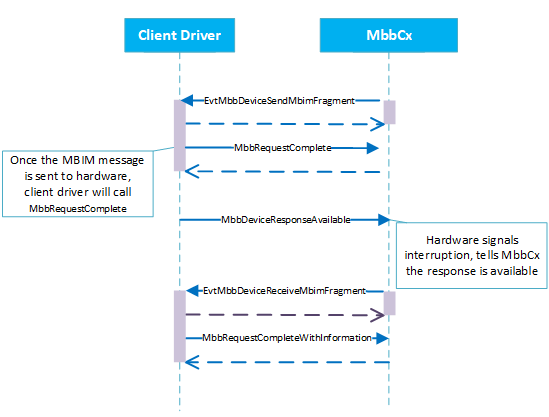
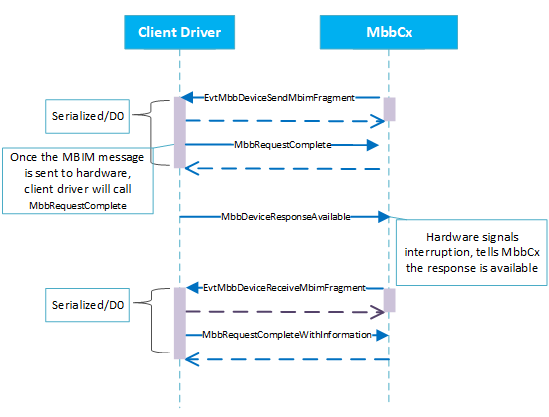
still more

diff --git a/windows-driver-docs-pr/netcx/writing-an-mbbcx-client-driver.md b/windows-driver-docs-pr/netcx/writing-an-mbbcx-client-driver.md
@@ -20,13 +20,15 @@ ms.technology: windows-devices
 
 ## Initialize the device
 
-In addition to the tasks required by NetAdapterCx for [device initialization](device-initialization.md), an MBB client driver must perform the following tasks in its [*EvtDriverDeviceAdd*](https://docs.microsoft.com/windows-hardware/drivers/ddi/content/wdfdriver/nc-wdfdriver-evt_wdf_driver_device_add) callback function:
+In addition to those tasks required by NetAdapterCx for [NetAdapter device initialization](device-initialization.md), an MBB client driver must also perform the following tasks in its [*EvtDriverDeviceAdd*](https://docs.microsoft.com/windows-hardware/drivers/ddi/content/wdfdriver/nc-wdfdriver-evt_wdf_driver_device_add) callback function:
 
-1. Call [**MbbDeviceInitConfig**](mbbdeviceinitconfig.md) after calling [**NetAdapterDeviceInitConfig**](https://docs.microsoft.com/windows-hardware/drivers/ddi/content/netadapter/nf-netadapter-netadapterdeviceinitconfig), referencing the same [*WDFDEVICE\_INIT*](../wdf/wdfdevice_init.md) object passed by the framework. **MbbDeviceInitConfig** must be called before calling [*WdfDeviceCreate*](https://docs.microsoft.com/windows-hardware/drivers/ddi/content/wdfdevice/nf-wdfdevice-wdfdevicecreate). 
+1. Call [**MbbDeviceInitConfig**](mbbdeviceinitconfig.md) after calling [*NetAdapterDeviceInitConfig*](https://docs.microsoft.com/windows-hardware/drivers/ddi/content/netadapter/nf-netadapter-netadapterdeviceinitconfig) but before calling [*WdfDeviceCreate*](https://docs.microsoft.com/windows-hardware/drivers/ddi/content/wdfdevice/nf-wdfdevice-wdfdevicecreate), referencing the same [*WDFDEVICE\_INIT*](../wdf/wdfdevice_init.md) object passed-in by the framework.
 
-2. Call [**MbbDeviceInitialize**](mbbdeviceinitialize.md) to register MBB device-specific callback functions using an initialized [MBB_DEVICE_CONFIG](mbb-device-config.md) structure and the WDFDEVICE object obtained from **WdfDeviceCreate**.
+2. Call [**MbbDeviceInitialize**](mbbdeviceinitialize.md) to register MBB device-specific callback functions using an initialized [MBB_DEVICE_CONFIG](mbb-device-config.md) structure and the WDFDEVICE object obtained from *WdfDeviceCreate*.
 
-The following example demonstrates how to initialize the MBB device. NOte that error handling has been left out for clarity.
+The following example demonstrates how to initialize the MBB device.
+
+>the error handling has been left out for clarity.
 
 ```C++
     status = NetAdapterDeviceInitConfig(deviceInit);
@@ -47,38 +49,43 @@ The following example demonstrates how to initialize the MBB device. NOte that e
 ```
 Unlike other types of NetAdapterCx drivers, MBB client drivers must not create the NETADAPTER object from within the *EvtDriverDeviceAdd* callback function. Instead, it will be instructed by MBBCx to do so later.
 
-In the [*EvtDevicePrepareHardware*](https://docs.microsoft.com/windows-hardware/drivers/ddi/content/wdfdevice/nc-wdfdevice-evt_wdf_device_prepare_hardware) callback function that follows, the client driver must call [**MbbDeviceSetMbimParameters**](mbbdevicesetmbimparameters.md).
+Next, the client driver must call [**MbbDeviceSetMbimParameters**](mbbdevicesetmbimparameters.md), typically in the [*EvtDevicePrepareHardware*](https://docs.microsoft.com/windows-hardware/drivers/ddi/content/wdfdevice/nc-wdfdevice-evt_wdf_device_prepare_hardware) callback function that follows, .
 
 ## Handling MBIM control messages
 
 MBBCx uses the standard MBIM control commands defined in MBIM specification Rev 1.0, sections 8, 9, and 10, for the control plane. Commands and responses are exchanged through a set of callback functions provided by the client driver and APIs provided by MBBCx. MBBCx mimics the operational model of an MBIM device, as defined in MBIM specification Rev 1.0, section 5.3, by using these function calls:
 
-- MBBCx sends an MBIM control message to the client driver by invoking its [*EvtMbbDeviceSendMbimFragment*](evt-mbb-device-send-mbim-fragment.md) callback function. The client driver asynchronously completes this send request by calling [**MbbRequestComplete**](mbbrequestcomplete.md).
+- MBBCx sends an MBIM command message to the client driver by invoking its [**EvtMbbDeviceSendMbimFragment**](evt-mbb-device-send-mbim-fragment.md) callback function. The client driver asynchronously completes this send request by calling [**MbbRequestComplete**](mbbrequestcomplete.md).
 - The client driver signals availability of the result by calling [**MbbDeviceResponseAvailable**](mbbdeviceresponseavailable.md).
-- MBBCx fetches the response from the client driver by invoking its [*EvtMbbDeviceReceiveMbimFragment*](evt-mbb-device-receive-mbim-fragment.md) callback function. The client driver asynchronously completes this get-response request by calling [**MbbRequestCompleteWithInformation**](mbbrequestcompletewithinformation.md). 
-- The Mbb client driver may notify MBBCx of an unsolicited device event by calling **MbbDeviceResponsAvailable**. MBBCx then retrieves the information from the client driver similarly to how it fetches responses.
+- MBBCx fetches the MBIM response message from the client driver by invoking its [**EvtMbbDeviceReceiveMbimFragment**](evt-mbb-device-receive-mbim-fragment.md) callback function. The client driver asynchronously completes this get-response request by calling [**MbbRequestCompleteWithInformation**](mbbrequestcompletewithinformation.md). 
+- The Mbb client driver may notify MBBCx of an unsolicited device event by calling **MbbDeviceResponseAvailable**. MBBCx then retrieves the information from the client driver similarly to how it fetches MBIM response messages.
 
 The following diagram illustrates MBBCx-client driver message exchange flow.
 
 ![Mbim Message Exchange](images/mbim.png)
 
-power-up 
+### Synchronization of MBIM control message
+The MbbCx framework always serializes the calls into the client driver's **EvtMbbDeviceSendMbimFragment** or **EvtMbbDeviceReceiveMbimFragment** callback functions. No new calls will be made by the MbbCx framework until the client driver calls either **MbbRequestComplete** or **MbbRequestCompleteWithInformation**.
 
-MBIM_CLOSE_MSG
+While the client driver is guaranteed not to receive overlapped **EvtMbbDeviceSendMbimFragment** or **EvtMbbDeviceReceiveMbimFragment** callbacks, but it may be receiving multiple of them in successions, before the response for a previous command is available from the device.
+
+If the device is not in D0 state, the MbbCx framework will first bring the device to D0, i.e. calls [*EvtDeviceD0Entry*]() callback function, before it calls **EvtMbbDeviceSendMbimFragment** or **EvtMbbDeviceReceiveMbimFragment** callback. The MbbCx framework also guarantees to keep the device in D0 states, i.e. not to call [*EvtDeviceD0Exit*](), until the client calls **MbbRequestComplete** or **MbbRequestCompleteWithInformation**.
 
 ## Creating the NetAdapter interface for the PDP context/EPS bearer
 
-Before establishing a data session, MBBCx will instruct the client driver to create a NETADAPTER object that will be used to represent the network interface for the data session activated. This is accomplished by a call from MBBCx into the client driver's [*EvtMbbDeviceCreateAdapter*](evt-mbb-device-create-adapter.md) callback function. 
+Before establishing a data session, MBBCx will instruct the client driver to create a NETADAPTER object, and it will be used by MbbCx to represent the network interface for the data session activated. This is accomplished by MBBCx calling into the client driver's [*EvtMbbDeviceCreateAdapter*](evt-mbb-device-create-adapter.md) callback function. 
 
-In the implementation of the *EvtMbbDeviceCreateAdapter* callback function, the client driver must first perform the same tasks for creating a NETADAPTER object as required by any NetAdapterCx client driver. Furthermore, it must perform the following additional tasks:
+In the implementation of the *EvtMbbDeviceCreateAdapter* callback function, the MbbCx client driver must first perform the same tasks required for creating a NETADAPTER object as any NetAdapterCx client driver. Additionally, it must also perform the following additional tasks:
 
-1. Call [**MbbAdapterInitialize**](mbbadapterinitialize.md) with the NETADAPTER object created by [*NetAdapterCreate*](https://docs.microsoft.com/windows-hardware/drivers/ddi/content/netadapter/nf-netadapter-netadaptercreate).
+1. Call [**MbbAdapterInitialize**](mbbadapterinitialize.md) on the NETADAPTER object created by [*NetAdapterCreate*](https://docs.microsoft.com/windows-hardware/drivers/ddi/content/netadapter/nf-netadapter-netadaptercreate).
 
 2. After calling *MbbAdapterinitialize*, call [**MbbAdapterGetSessionId**](mbbadaptergetsessionid.md) to retreive the data session ID for which MBBCx intends to use this NETADAPTER object. For example, if the returned value is 0, it means MBBCx will use this NETADAPTER interface for the data session established by the primary PDP context/default EPS bearer.
 
 3. We recommend that MBBCx client drivers keep an internal mapping between the created NETADAPTER object and the returned *SessionId*. This helps track the data session-to-NETADAPTER object relationship, which is especially useful when multiple PDP contexts/EPS bearers have been activated.
 
 MBBCx invokes this callback function at least once, so there is always 1 NETADPATER object for the primary PDP context/default EPS bearer. If multiple PDP contexts/EPS bearers are activated, MBBCx might invoke this callback function more times, once for every data session to be established. There must be a 1-to-1 relationship between the network interface represented by the NETADAPTER object and a data session.
+
+![Multiple NetAdapters](images/multi-netadapter.png)
 
 The following example shows how to create a NETADAPTER object for a data session.
 
@@ -130,9 +137,9 @@ MBBCx guarantees that it calls *EvtMbbDeviceCreateAdapter* before requesting **M
 
 ![NETADAPTER creation and activation for an MBB client driver](images/activation.png)
 
-Flow for creating the NETADAPTER object for the primary PDP context/default EPS bearer is initiated by MBBCx when [*EvtDevicePrepareHardware*](https://docs.microsoft.com/windows-hardware/drivers/ddi/content/wdfdevice/nc-wdfdevice-evt_wdf_device_prepare_hardware) has successfully finished.
+The flow for creating the NETADAPTER object for the primary PDP context/default EPS bearer is initiated by MBBCx when [*EvtDevicePrepareHardware*](https://docs.microsoft.com/windows-hardware/drivers/ddi/content/wdfdevice/nc-wdfdevice-evt_wdf_device_prepare_hardware) has successfully finished.
 
-Flow for creating the NETADAPTER object for the secondary PDP context/dedicated EPS bearer is triggered by WwanSvc whenever on-demand connections are requested by applications.
+The flow for creating the NETADAPTER object for the secondary PDP context/dedicated EPS bearer is triggered by WwanSvc whenever on-demand connections are requested by applications.
 
 ### Lifetime of the NETADAPTER object
 
@@ -171,6 +178,6 @@ The following example shows how to call the MBBCx-specific power management APIs
 
 ## Handling device service sessions
 
-When an application sends DSS data down to the modem device, MBBCx invokes the client driver's[*EvtMbbDeviceSendServiceSessionData*](evt-mbb-device-send-service-session-data.md) callback function. The client driver should then send the data asynchronously to the device and call [**MbbDeviceSenServiceSessionDataComplete**](mbbdevicesendservicesessiondatacomplete.md) once the send has completed, so MBBCx then can free the memory allocated for the data. 
+When an application sends DSS data down to the modem device, MBBCx invokes the client driver's [*EvtMbbDeviceSendServiceSessionData*](evt-mbb-device-send-service-session-data.md) callback function. The client driver should then send the data asynchronously to the device and call [**MbbDeviceSenServiceSessionDataComplete**](mbbdevicesendservicesessiondatacomplete.md) once the send has completed, so MBBCx then can free the memory allocated for the data. 
 
 Conversely, the client driver calls [**MbbDeviceReceiveServiceSessionData**](mbbdevicereceiveservicesessiondata.md) to pass any data up to the application through MBBCx.
